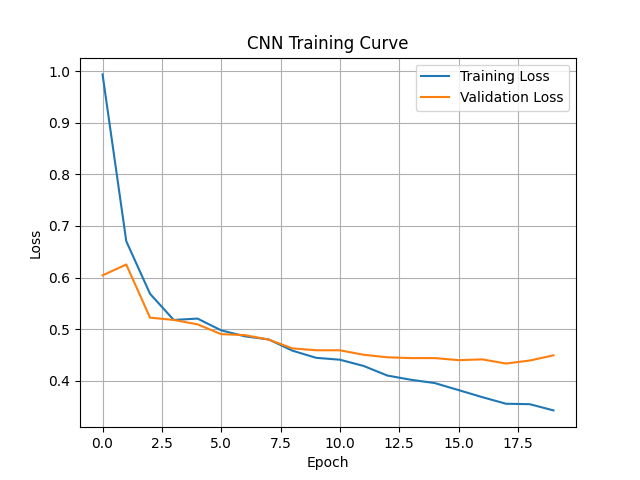
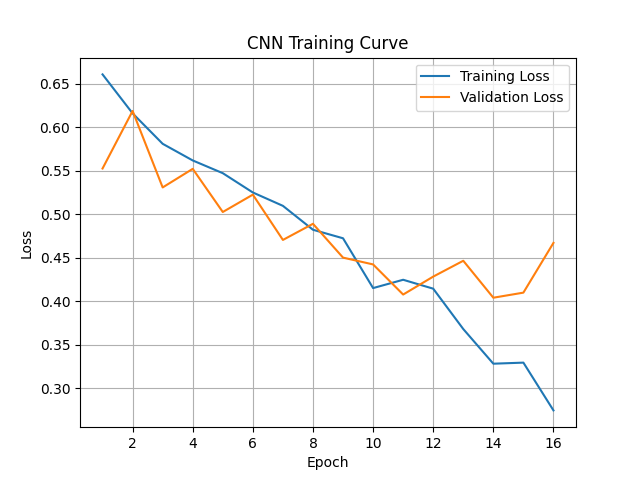
feat: third CNN version

diff --git a/A/task_A_models.py b/A/task_A_models.py
@@ -198,11 +198,14 @@ class CNNModel(nn.Module):
         super().__init__()
         self.conv1 = nn.Conv2d(1, 3, kernel_size=2, stride=1)  # First Conv layer
         self.conv2 = nn.Conv2d(3, 16, kernel_size=2, stride=1)  # Second Conv layer
+        self.conv3 = nn.Conv2d(16, 32, kernel_size=2, stride=1)  # Third Conv layer
         self.pool = nn.MaxPool2d(kernel_size=2, stride=2)  # Max Pooling
         self.relu = nn.ReLU()  # Activation function
-        self.fc1 = nn.Linear(16 * 6 * 6, 256)  # Fully connected layer
-        self.fc2 = nn.Linear(256, 128)  # Fully connected layer
-        self.fc3 = nn.Linear(128, 1)  # Single output for binary classification
+        self.fc1 = nn.Linear(32 * 5 * 5, 512)  # Fully connected layer
+        self.fc2 = nn.Linear(512, 256)  # Fully connected layer
+        self.fc3 = nn.Linear(256, 128)  # Fully connected layer
+        self.fc4 = nn.Linear(128, 1)  # Single output for binary classification
+        self.dropout = nn.Dropout(0.4)  # 30% dropout rate
         self.sigmoid = nn.Sigmoid()  # Activation function
 
     def forward(self, x: ArrayLike) -> ArrayLike:
@@ -217,10 +220,15 @@ class CNNModel(nn.Module):
         """
         x = self.pool(self.relu(self.conv1(x)))
         x = self.pool(self.relu(self.conv2(x)))
+        x = self.relu(self.conv3(x))
         x = x.view(x.shape[0], -1)  # Flatten for the fully connected layer
         x = self.relu(self.fc1(x))
+        x = self.dropout(x)
         x = self.relu(self.fc2(x))
-        x = self.sigmoid(self.fc3(x))  # Apply sigmoid function for binary classification
+        x = self.dropout(x)
+        x = self.relu(self.fc3(x))
+        x = self.dropout(x)
+        x = self.sigmoid(self.fc4(x))  # Apply sigmoid function for binary classification
         return x
 
 
@@ -324,8 +332,8 @@ class CNNModelTrainer:
 
     def plot_training_curve(self):
         # Plot the training curve
-        plt.plot(self.train_losses, label="Training Loss")
-        plt.plot(self.val_losses, label="Validation Loss")
+        plt.plot(range(1, len(self.train_losses)+1, 1), self.train_losses, label="Training Loss")
+        plt.plot(range(1, len(self.val_losses)+1, 1), self.val_losses, label="Validation Loss")
         plt.xlabel("Epoch")
         plt.ylabel("Loss")
         plt.legend()
